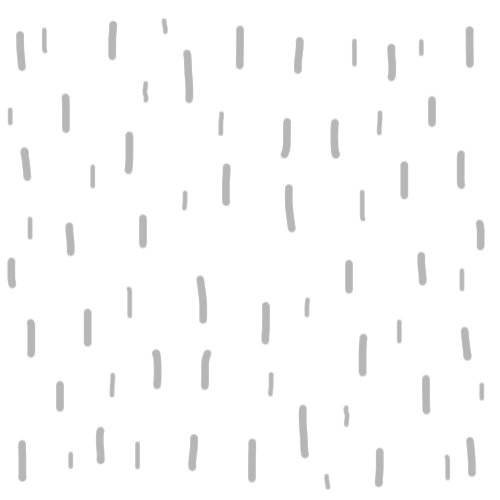
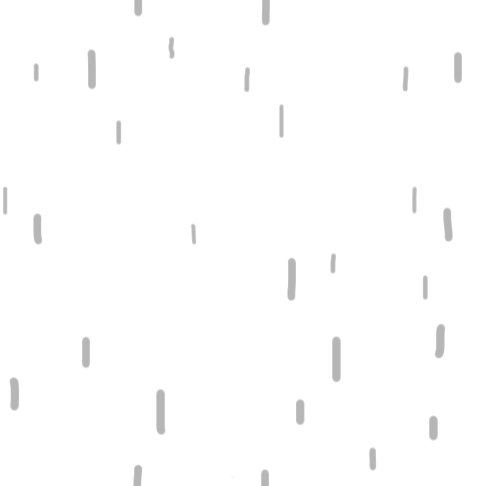
rain (WIP)

diff --git a/src/components/EntitiesManager/EntitiesManager.jsx b/src/components/EntitiesManager/EntitiesManager.jsx
@@ -49,6 +49,7 @@ export default function EntitiesManager({ data, onEntityCollected }) {
                 <Person particles={particlesRef} weather={weather} tick={tick} onEntityCollected={onEntityCollected} />
                 <Bike particles={particlesRef} weather={weather} tick={tick} onEntityCollected={onEntityCollected} />
                 <Car particles={particlesRef} weather={weather} tick={tick} onEntityCollected={onEntityCollected} />
+                <div className='rain'></div>
 
                 {particlesMemo}
             </div>

diff --git a/src/entities.scss b/src/entities.scss
@@ -150,3 +150,28 @@
         right: 100%;
     }
 }
+
+.rain {
+    background-image: url('../src/assets/images/effects/rain.png');
+    background-size: 130px;
+    transform: rotate(342deg);
+    pointer-events: none;
+    
+    position: absolute;
+    width: 200%;
+    height: 200%;
+    top: -50%;
+    left: -50%;
+
+    animation: rain 1.6s linear infinite;
+
+    @keyframes rain {
+        from {
+            background-position-y: 0;
+        }
+        to {
+            background-position-y: 130px;
+
+        }
+    }
+}
